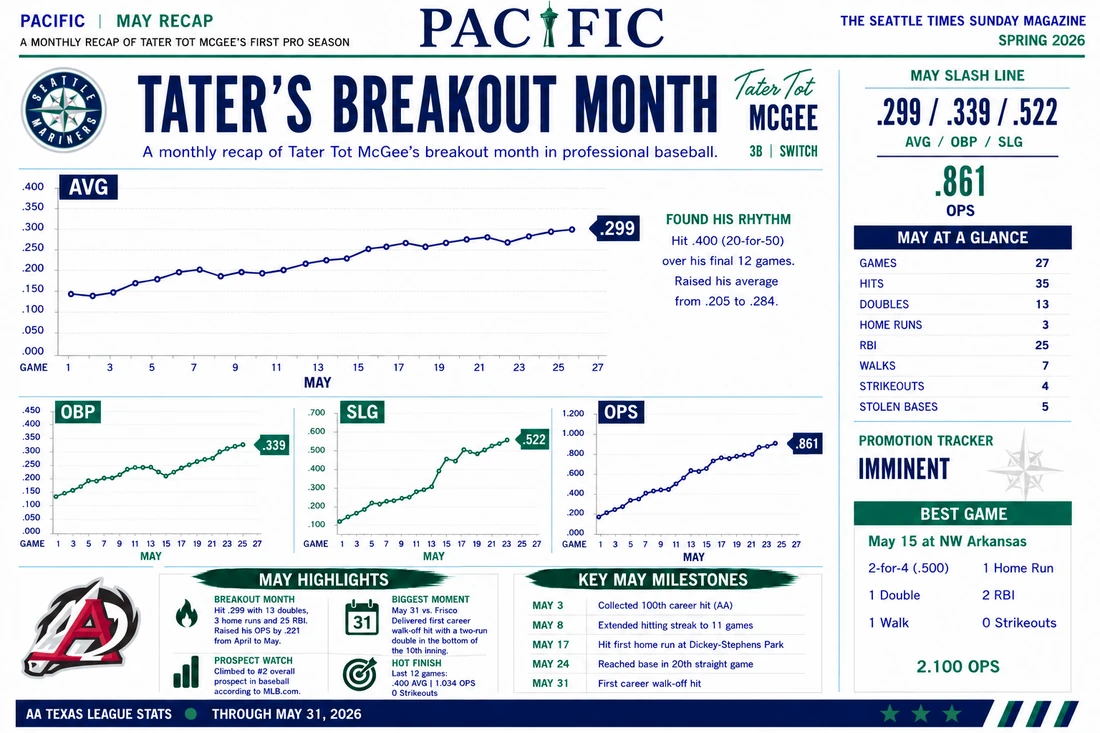
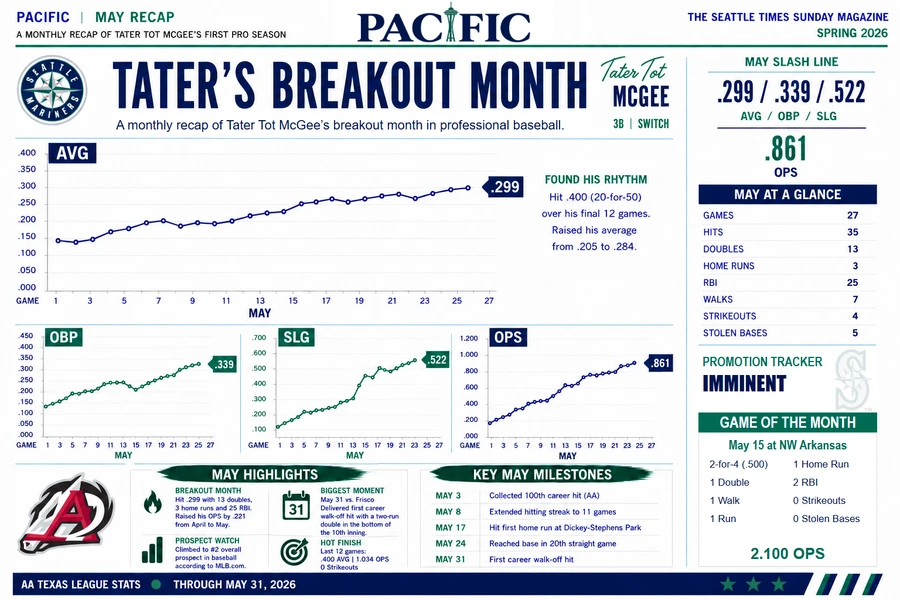
recaps

diff --git a/stats.html b/stats.html
@@ -12,9 +12,9 @@
 .stats-note{font-size:12px;color:var(--muted);line-height:1.5}
 </style></head><body><div class="topline"><div class="bar"><span>Tater Tot Chronicles · A PACIFIC Career Archive</span><span>Sandpoint · Fresno · Seattle</span></div></div>
 <header class="mast"><div class="mastrow"><div><a class="sitebrand" href="index.html">TATER TOT CHRONICLES</a><div class="tag">A family and baseball archive</div></div><a class="pacific-logo-link" href="index.html" aria-label="Tater Tot Chronicles home"><img class="pacific-logo-img" src="assets/pacific-logo.png" alt="PACIFIC"></a></div></header>
-<nav class="nav"><div class="navrow"><a class="" href="index.html">Home</a><a class="" href="mcgee-story.html">The McGee Story</a><a class="" href="archive.html">Weekly Write-Ups</a><a class="" href="recaps.html">Monthly Recaps</a><a class="active" href="stats.html" aria-current="page">Stats</a><a class="" href="career.html">Career Milestones</a><a class="" href="photos.html">Photos</a><a class="" href="snapshots.html">Personal Snapshots</a></div></nav><main><section class="pagehero"><div class="wrap"><div class="kicker">The season in numbers</div><h1 class="h1">Tater Tot McGee — 2026 Statistics</h1><p class="dek">2026 statistics through PACIFIC Issue 14, including the first four Triple-A series.</p><p class="stats-note">Summary: Tacoma’s first 24 games through the July 2026 series in Issue 14. Double-A totals through June 7 are listed below.</p><div class="statcards"><div class="stat stats-team"><b>Tacoma Rainiers — Triple-A</b><span>Through game 24 · PACIFIC Issue 14</span></div><div class="stat"><b>24</b><span>Games</span></div><div class="stat"><b>.270</b><span>AVG</span></div><div class="stat"><b>.302</b><span>OBP</span></div><div class="stat"><b>.520</b><span>SLG</span></div><div class="stat"><b>.822</b><span>OPS</span></div><div class="stat"><b>5</b><span>HR</span></div><div class="stat"><b>19</b><span>RBI</span></div><div class="stat"><b>5</b><span>SB</span></div><div class="stat"><b>5</b><span>BB</span></div><div class="stat"><b>7</b><span>SO</span></div><div class="stat"><b>100</b><span>AB</span></div><div class="stat"><b>12</b><span>R</span></div><div class="stat"><b>27</b><span>H</span></div><div class="stat"><b>10</b><span>2B</span></div><div class="stat"><b>0</b><span>3B</span></div></div></div></section><section id="arkansas" class=""><div class="wrap"><div class="kicker">Double-A</div><h2 class="h2" id="arkansas-heading">Double-A Arkansas Travelers</h2><div class="stats-table-scroll" role="region" aria-labelledby="arkansas-heading" tabindex="0"><table class="stats-table" aria-labelledby="arkansas-heading"><thead><tr><th scope="col">Season</th><th scope="col">G</th><th scope="col">AB</th><th scope="col">R</th><th scope="col">H</th><th scope="col">2B</th><th scope="col">3B</th><th scope="col">HR</th><th scope="col">RBI</th><th scope="col">BB</th><th scope="col">SO</th><th scope="col">SB</th><th scope="col">HBP</th><th scope="col">SF</th><th scope="col">AVG</th><th scope="col">OBP</th><th scope="col">SLG</th><th scope="col">OPS</th></tr></thead><tbody><tr><th scope="row">2026</th><td>57</td><td>230</td><td>23</td><td>66</td><td>18</td><td>0</td><td>6</td><td>42</td><td>17</td><td>14</td><td>12</td><td>3</td><td>4</td><td>.287</td><td>.339</td><td>.443</td><td>.782</td></tr></tbody></table></div></div></section><section id="tacoma" class="section-alt"><div class="wrap"><div class="kicker">Triple-A</div><h2 class="h2" id="tacoma-heading">Triple-A Tacoma Rainiers</h2><p class="stats-note">Season totals through game 24 · Source: <a href="issue-14.html">PACIFIC Issue 14 — Two Tater Trots for America's 250th</a>. HBP and SF were not listed in the article.</p><div class="stats-table-scroll" role="region" aria-labelledby="tacoma-heading" tabindex="0"><table class="stats-table" aria-labelledby="tacoma-heading"><thead><tr><th scope="col">Season</th><th scope="col">G</th><th scope="col">AB</th><th scope="col">R</th><th scope="col">H</th><th scope="col">2B</th><th scope="col">3B</th><th scope="col">HR</th><th scope="col">RBI</th><th scope="col">BB</th><th scope="col">SO</th><th scope="col">SB</th><th scope="col">HBP</th><th scope="col">SF</th><th scope="col">AVG</th><th scope="col">OBP</th><th scope="col">SLG</th><th scope="col">OPS</th></tr></thead><tbody><tr><th scope="row">2026</th><td>24</td><td>100</td><td>12</td><td>27</td><td>10</td><td>0</td><td>5</td><td>19</td><td>5</td><td>7</td><td>5</td><td>—</td><td>—</td><td>.270</td><td>.302</td><td>.520</td><td>.822</td></tr></tbody></table></div></div></section>
-<section id="series-stats"><div class="wrap"><div class="kicker">Series by series</div><h2 class="h2" id="series-heading">Tacoma Series Stats</h2><p class="stats-note">June–July 2026 · Statistics as printed in each PACIFIC issue.</p><div class="stats-table-scroll" role="region" aria-labelledby="series-heading" tabindex="0"><table class="stats-table" aria-labelledby="series-heading"><thead><tr><th scope="col">Series</th><th scope="col">G</th><th scope="col">AB</th><th scope="col">R</th><th scope="col">H</th><th scope="col">2B</th><th scope="col">3B</th><th scope="col">HR</th><th scope="col">RBI</th><th scope="col">BB</th><th scope="col">SO</th><th scope="col">SB</th><th scope="col">AVG</th><th scope="col">OBP</th><th scope="col">SLG</th><th scope="col">OPS</th></tr></thead><tbody><tr><th scope="row"><a href="issue.html?issue=11">Issue 11 · First Triple-A series</a></th><td>6</td><td>26</td><td>4</td><td>7</td><td>4</td><td>0</td><td>2</td><td>5</td><td>1</td><td>4</td><td>4</td><td>.269</td><td>.296</td><td>.654</td><td>.950</td></tr><tr><th scope="row"><a href="issue.html?issue=12">Issue 12 · @ Salt Lake Bees</a></th><td>6</td><td>23</td><td>2</td><td>6</td><td>2</td><td>0</td><td>1</td><td>5</td><td>3</td><td>1</td><td>0</td><td>.261</td><td>.346</td><td>.478</td><td>.824</td></tr><tr><th scope="row"><a href="issue.html?issue=13">Issue 13 · vs. Round Rock Express</a></th><td>6</td><td>24</td><td>4</td><td>6</td><td>2</td><td>0</td><td>0</td><td>3</td><td>1</td><td>2</td><td>1</td><td>.250</td><td>.280</td><td>.333</td><td>.613</td></tr><tr><th scope="row"><a href="issue-14.html">Issue 14 · vs. Reno Aces</a></th><td>6</td><td>27</td><td>2</td><td>8</td><td>2</td><td>0</td><td>2</td><td>6</td><td>0</td><td>0</td><td>0</td><td>.296</td><td>.286</td><td>.593</td><td>.878</td></tr></tbody></table></div></div></section><!-- Later AAA totals held until the corresponding weekly articles are published.
-<section id="tacoma" class="section-alt"><div class="wrap"><div class="kicker">Triple-A</div><h2 class="h2" id="tacoma-heading">Triple-A Tacoma Rainiers</h2><div class="stats-table-scroll" role="region" aria-labelledby="tacoma-heading" tabindex="0"><table class="stats-table" aria-labelledby="tacoma-heading"><thead><tr><th scope="col">Season</th><th scope="col">G</th><th scope="col">AB</th><th scope="col">R</th><th scope="col">H</th><th scope="col">2B</th><th scope="col">3B</th><th scope="col">HR</th><th scope="col">RBI</th><th scope="col">BB</th><th scope="col">SO</th><th scope="col">SB</th><th scope="col">HBP</th><th scope="col">SF</th><th scope="col">AVG</th><th scope="col">OBP</th><th scope="col">SLG</th><th scope="col">OPS</th></tr></thead><tbody><tr><th scope="row">2026</th><td>39</td><td>166</td><td>17</td><td>45</td><td>17</td><td>0</td><td>9</td><td>29</td><td>6</td><td>9</td><td>5</td><td>0</td><td>2</td><td>.271</td><td>.293</td><td>.536</td><td>.829</td></tr></tbody></table></div></div></section>
+<nav class="nav"><div class="navrow"><a class="" href="index.html">Home</a><a class="" href="mcgee-story.html">The McGee Story</a><a class="" href="archive.html">Weekly Write-Ups</a><a class="" href="recaps.html">Monthly Recaps</a><a class="active" href="stats.html" aria-current="page">Stats</a><a class="" href="career.html">Career Milestones</a><a class="" href="photos.html">Photos</a><a class="" href="snapshots.html">Personal Snapshots</a></div></nav><main><section class="pagehero"><div class="wrap"><div class="kicker">The season in numbers</div><h1 class="h1">Tater Tot McGee — 2026 Statistics</h1><p class="dek">2026 statistics through game 24, based on the corrected game log.</p><p class="stats-note">Tacoma totals through July 5, 2026, from the corrected game log. Double-A totals through June 7 are listed below.</p><div class="statcards"><div class="stat stats-team"><b>Tacoma Rainiers — Triple-A</b><span>Through game 24 · Corrected game log</span></div><div class="stat"><b>24</b><span>Games</span></div><div class="stat"><b>.270</b><span>AVG</span></div><div class="stat"><b>.302</b><span>OBP</span></div><div class="stat"><b>.490</b><span>SLG</span></div><div class="stat"><b>.792</b><span>OPS</span></div><div class="stat"><b>4</b><span>HR</span></div><div class="stat"><b>19</b><span>RBI</span></div><div class="stat"><b>5</b><span>SB</span></div><div class="stat"><b>5</b><span>BB</span></div><div class="stat"><b>7</b><span>SO</span></div><div class="stat"><b>100</b><span>AB</span></div><div class="stat"><b>12</b><span>R</span></div><div class="stat"><b>27</b><span>H</span></div><div class="stat"><b>10</b><span>2B</span></div><div class="stat"><b>0</b><span>3B</span></div></div><section id="arkansas" class=""><div class="wrap"><div class="kicker">Double-A</div><h2 class="h2" id="arkansas-heading">Double-A Arkansas Travelers</h2><div class="stats-table-scroll" role="region" aria-labelledby="arkansas-heading" tabindex="0"><table class="stats-table" aria-labelledby="arkansas-heading"><thead><tr><th scope="col">Season</th><th scope="col">G</th><th scope="col">AB</th><th scope="col">R</th><th scope="col">H</th><th scope="col">2B</th><th scope="col">3B</th><th scope="col">HR</th><th scope="col">RBI</th><th scope="col">BB</th><th scope="col">SO</th><th scope="col">SB</th><th scope="col">HBP</th><th scope="col">SF</th><th scope="col">AVG</th><th scope="col">OBP</th><th scope="col">SLG</th><th scope="col">OPS</th></tr></thead><tbody><tr><th scope="row">2026</th><td>57</td><td>230</td><td>23</td><td>66</td><td>18</td><td>0</td><td>6</td><td>42</td><td>17</td><td>14</td><td>12</td><td>3</td><td>4</td><td>.287</td><td>.339</td><td>.443</td><td>.782</td></tr></tbody></table></div></div></section><section id="tacoma" class="section-alt"><div class="wrap"><div class="kicker">Triple-A</div><h2 class="h2" id="tacoma-heading">Triple-A Tacoma Rainiers</h2><p class="stats-note">Season totals through game 24 · Source: corrected Tater game log through July 5, 2026.</p><div class="stats-table-scroll" role="region" aria-labelledby="tacoma-heading" tabindex="0"><table class="stats-table" aria-labelledby="tacoma-heading"><thead><tr><th scope="col">Season</th><th scope="col">G</th><th scope="col">AB</th><th scope="col">R</th><th scope="col">H</th><th scope="col">2B</th><th scope="col">3B</th><th scope="col">HR</th><th scope="col">RBI</th><th scope="col">BB</th><th scope="col">SO</th><th scope="col">SB</th><th scope="col">HBP</th><th scope="col">SF</th><th scope="col">AVG</th><th scope="col">OBP</th><th scope="col">SLG</th><th scope="col">OPS</th></tr></thead><tbody><tr><th scope="row">2026</th><td>24</td><td>100</td><td>12</td><td>27</td><td>10</td><td>0</td><td>4</td><td>19</td><td>5</td><td>7</td><td>5</td><td>0</td><td>1</td><td>.270</td><td>.302</td><td>.490</td><td>.792</td></tr></tbody></table></div></div></section>
+<section id="series-stats"><div class="wrap"><div class="kicker">Series by series</div><h2 class="h2" id="series-heading">Tacoma Series Stats</h2><p class="stats-note">June–July 2026 · Statistics as printed in each PACIFIC issue.</p><div class="stats-table-scroll" role="region" aria-labelledby="series-heading" tabindex="0"><table class="stats-table" aria-labelledby="series-heading"><thead><tr><th scope="col">Series</th><th scope="col">G</th><th scope="col">AB</th><th scope="col">R</th><th scope="col">H</th><th scope="col">2B</th><th scope="col">3B</th><th scope="col">HR</th><th scope="col">RBI</th><th scope="col">BB</th><th scope="col">SO</th><th scope="col">SB</th><th scope="col">AVG</th><th scope="col">OBP</th><th scope="col">SLG</th><th scope="col">OPS</th></tr></thead><tbody><tr><th scope="row"><a href="issue-11.html">Issue 11 · First Triple-A series</a></th><td>6</td><td>26</td><td>4</td><td>7</td><td>4</td><td>0</td><td>1</td><td>5</td><td>1</td><td>4</td><td>4</td><td>.269</td><td>.296</td><td>.538</td><td>.835</td></tr><tr><th scope="row"><a href="issue-12.html">Issue 12 · @ Salt Lake Bees</a></th><td>6</td><td>23</td><td>2</td><td>6</td><td>3</td><td>0</td><td>1</td><td>5</td><td>3</td><td>1</td><td>0</td><td>.261</td><td>.346</td><td>.522</td><td>.868</td></tr><tr><th scope="row"><a href="issue-13.html">Issue 13 · vs. Round Rock Express</a></th><td>6</td><td>24</td><td>4</td><td>6</td><td>2</td><td>0</td><td>0</td><td>3</td><td>1</td><td>2</td><td>1</td><td>.250</td><td>.280</td><td>.333</td><td>.613</td></tr><tr><th scope="row"><a href="issue-14.html">Issue 14 · vs. Reno Aces</a></th><td>6</td><td>27</td><td>2</td><td>8</td><td>1</td><td>0</td><td>2</td><td>6</td><td>0</td><td>0</td><td>0</td><td>.296</td><td>.286</td><td>.556</td><td>.841</td></tr></tbody></table></div></div></section><!-- Later AAA totals held until the corresponding weekly articles are published.
+<section id="tacoma" class="section-alt"><div class="wrap"><div class="kicker">Triple-A</div><h2 class="h2" id="tacoma-heading">Triple-A Tacoma Rainiers</h2><div class="stats-table-scroll" role="region" aria-labelledby="tacoma-heading" tabindex="0"><table class="stats-table" aria-labelledby="tacoma-heading"><thead><tr><th scope="col">Season</th><th scope="col">G</th><th scope="col">AB</th><th scope="col">R</th><th scope="col">H</th><th scope="col">2B</th><th scope="col">3B</th><th scope="col">HR</th><th scope="col">RBI</th><th scope="col">BB</th><th scope="col">SO</th><th scope="col">SB</th><th scope="col">HBP</th><th scope="col">SF</th><th scope="col">AVG</th><th scope="col">OBP</th><th scope="col">SLG</th><th scope="col">OPS</th></tr></thead><tbody><tr><th scope="row">2026</th><td>24</td><td>100</td><td>12</td><td>27</td><td>10</td><td>0</td><td>4</td><td>19</td><td>5</td><td>7</td><td>5</td><td>0</td><td>1</td><td>.270</td><td>.302</td><td>.490</td><td>.792</td></tr></tbody></table></div></div></section>
 --><section id="seattle" class=""><div class="wrap"><div class="kicker">Major League Baseball</div><h2 class="h2" id="seattle-heading">Seattle Mariners</h2><p class="dek">No MLB games yet.</p></div></section><section id="monthly-splits" class="section-soft"><div class="wrap"><div class="kicker">Month by month</div><h2 class="h2" id="monthly-splits-heading">Monthly Splits</h2><div class="stats-table-scroll" role="region" aria-labelledby="monthly-splits-heading" tabindex="0"><table class="stats-table" aria-labelledby="monthly-splits-heading"><thead><tr><th scope="col">Month</th><th scope="col">G</th><th scope="col">AB</th><th scope="col">R</th><th scope="col">H</th><th scope="col">2B</th><th scope="col">3B</th><th scope="col">HR</th><th scope="col">RBI</th><th scope="col">BB</th><th scope="col">SO</th><th scope="col">SB</th><th scope="col">AVG</th><th scope="col">OBP</th><th scope="col">SLG</th><th scope="col">OPS</th></tr></thead><tbody><tr><th scope="row">April</th><td>24</td><td>90</td><td>8</td><td>24</td><td>4</td><td>0</td><td>0</td><td>13</td><td>8</td><td>6</td><td>7</td><td>.267</td><td>.333</td><td>.311</td><td>.644</td></tr><tr><th scope="row">May</th><td>27</td><td>114</td><td>11</td><td>34</td><td>12</td><td>0</td><td>4</td><td>22</td><td>7</td><td>4</td><td>5</td><td>.298</td><td>.341</td><td>.509</td><td>.850</td></tr><!-- Held: includes unpublished AAA games.
 <tr><th scope="row">June</th><td>25</td><td>103</td><td>14</td><td>28</td><td>12</td><td>0</td><td>5</td><td>21</td><td>7</td><td>9</td><td>5</td><td>.272</td><td>.313</td><td>.534</td><td>.846</td></tr>
 --><!-- Held: includes unpublished AAA games.

diff --git a/recaps.html b/recaps.html
@@ -2,6 +2,6 @@
 <header class="mast"><div class="mastrow"><div><a class="sitebrand" href="index.html">TATER TOT CHRONICLES</a><div class="tag">A family and baseball archive</div></div><a class="pacific-logo-link" href="index.html" aria-label="Tater Tot Chronicles home"><img class="pacific-logo-img" src="assets/pacific-logo.png" alt="PACIFIC"></a></div></header>
 <nav class="nav"><div class="navrow"><a class="" href="index.html">Home</a><a class="" href="mcgee-story.html">The McGee Story</a><a class="" href="archive.html">Weekly Write-Ups</a><a class="active" href="recaps.html">Monthly Recaps</a><a href="stats.html">Stats</a><a class="" href="career.html">Career Milestones</a><a class="" href="photos.html">Photos</a><a class="" href="snapshots.html">Personal Snapshots</a></div></nav><section class="pagehero"><div class="wrap"><div class="kicker">Monthly Recaps</div><h1 class="h1">The season in numbers</h1><p class="dek">Monthly PACIFIC recaps from the professional season of Tater Tot McGee.</p></div></section>
 <section id="april"><div class="wrap"><div class="kicker">April 2026</div><h2 class="h2">Tater's April Roller Coaster</h2><div class="statcards"><div class="stat"><b>.267</b><span>AVG</span></div><div class="stat"><b>.333</b><span>OBP</span></div><div class="stat"><b>.311</b><span>SLG</span></div><div class="stat"><b>.644</b><span>OPS</span></div></div><div class="recapsec"><a href="assets/april-recap.png" target="_blank"><img src="assets/april-recap.png" alt="April PACIFIC recap"></a><div class="recapnotes"><h3>April at a glance</h3><ul><li>24 games, 24 hits, 4 doubles</li><li>13 RBI, 8 walks, 6 strikeouts</li><li>7 stolen bases</li><li>Finished the month by hitting .467 over his final four games</li><li>Game of the Month: April 29 at Wichita — 2-for-3, double, walk, stolen base, 1.800 OPS</li></ul></div></div></div></section>
-<section id="may" class="section-alt"><div class="wrap"><div class="kicker">May 2026</div><h2 class="h2">Tater's Breakout Month</h2><div class="statcards"><div class="stat"><b>.299</b><span>AVG</span></div><div class="stat"><b>.339</b><span>OBP</span></div><div class="stat"><b>.522</b><span>SLG</span></div><div class="stat"><b>.861</b><span>OPS</span></div></div><div class="recapsec"><a href="assets/may-recap.png" target="_blank"><img src="assets/may-recap.png" alt="May PACIFIC recap"></a><div class="recapnotes"><h3>May at a glance</h3><ul><li>27 games, 35 hits, 13 doubles</li><li>3 home runs and 25 RBI</li><li>7 walks, only 4 strikeouts</li><li>Hit .400 over the final 12 games of the month</li><li>Best Game: May 15 at Northwest Arkansas — 2-for-4, HR, 2B, 2 RBI, walk, 0 strikeouts, 2.100 OPS</li></ul></div></div></div></section>
-<section id="june"><div class="wrap"><div class="kicker">June 2026 · Arkansas AA / Tacoma AAA</div><h2 class="h2">Tater’s Tacoma Homecoming</h2><div class="statcards"><div class="stat"><b>.272</b><span>AVG</span></div><div class="stat"><b>.313</b><span>OBP</span></div><div class="stat"><b>.495</b><span>SLG</span></div><div class="stat"><b>.808</b><span>OPS</span></div></div><div class="recapsec"><a href="assets/june-recap.png" target="_blank" rel="noopener"><img src="assets/june-recap.png" alt="June PACIFIC recap: AVG, OBP, SLG and OPS graphs show the AA-to-AAA transition between June 7 and June 9" loading="lazy" decoding="async"></a><div class="recapnotes"><h3>June at a glance</h3><ul><li>25 games: 6 with Arkansas (AA), 19 with Tacoma (AAA)</li><li>103 at-bats, 14 runs, 28 hits, 11 doubles, 0 triples</li><li>4 home runs, 21 RBI, 7 walks, 11 strikeouts, 5 stolen bases</li><li>0 hit-by-pitches and 2 sacrifice flies</li></ul><h3>Highlights</h3><p>McGee closed his Arkansas stint with a two-homer game, then opened his Tacoma career with three hits, a double, a home run and two stolen bases. On June 19 at Salt Lake, he went 2-for-3 with a home run, a double, three RBI and a walk.</p><h3>Key Milestones</h3><ul><li>June 3: Game-tying two-run double in the eighth inning at Corpus Christi.</li><li>June 7: First professional multi-home-run game in his final Double-A appearance.</li><li>June 9: Triple-A debut and first AAA hit, RBI, double, run, walk, stolen base and home run.</li></ul><h3>Game of the Month</h3><p>June 19 at Salt Lake — 2-for-3, double, home run, 2 runs, 3 RBI, walk and 0 strikeouts. 2.750 OPS.</p><h3>Promotion Tracker</h3><p>Promoted from Arkansas to Tacoma on June 9 after 57 Double-A games. June includes both clubs; each graph marks the transition after June 7 and before June 9.</p><p>Graphs show running June-only totals across both levels, without resetting at promotion. Monthly coverage: June 1–30, 2026.</p></div></div></div></section>
+<section id="may" class="section-alt"><div class="wrap"><div class="kicker">May 2026</div><h2 class="h2">Tater's Breakout Month</h2><div class="statcards"><div class="stat"><b>.299</b><span>AVG</span></div><div class="stat"><b>.339</b><span>OBP</span></div><div class="stat"><b>.522</b><span>SLG</span></div><div class="stat"><b>.861</b><span>OPS</span></div></div><div class="recapsec"><a href="assets/may-recap.png" target="_blank"><img src="assets/may-recap.png" alt="May PACIFIC recap"></a><div class="recapnotes"><h3>May at a glance</h3><ul><li>27 games, 35 hits, 13 doubles</li><li>3 home runs and 25 RBI</li><li>7 walks, only 4 strikeouts</li><li>Hit .400 over the final 12 games of the month</li><li>Game of the Month: May 15 at Northwest Arkansas — 2-for-4, HR, 2B, 2 RBI, walk, 0 strikeouts, 2.100 OPS</li></ul></div></div></div></section>
+<section id="june"><div class="wrap"><div class="kicker">June 2026 · Arkansas AA / Tacoma AAA</div><h2 class="h2">Tater’s Tacoma Homecoming</h2><div class="statcards"><div class="stat"><b>.272</b><span>AVG</span></div><div class="stat"><b>.313</b><span>OBP</span></div><div class="stat"><b>.495</b><span>SLG</span></div><div class="stat"><b>.808</b><span>OPS</span></div></div><div class="recapsec"><a href="assets/june-recap.png" target="_blank" rel="noopener"><img src="assets/june-recap.png" alt="June PACIFIC recap: AVG, OBP, SLG and OPS graphs show the AA-to-AAA transition between June 7 and June 9" loading="lazy" decoding="async"></a><div class="recapnotes"><h3>June at a glance</h3><ul><li>25 games: 6 with Arkansas (AA), 19 with Tacoma (AAA)</li><li>103 at-bats, 14 runs, 28 hits, 11 doubles, 0 triples</li><li>4 home runs, 21 RBI, 7 walks, 11 strikeouts, 5 stolen bases</li><li>0 hit-by-pitches and 2 sacrifice flies</li></ul><h3>Highlights</h3><p>McGee closed his Arkansas stint with a two-homer game, then recorded 11 doubles and four home runs across the two levels in June.</p><h3>Key Milestones</h3><ul><li>June 3: Game-tying two-run double in the eighth inning at Corpus Christi.</li><li>June 7: First professional multi-home-run game in his final Double-A appearance.</li><li>June 9: Triple-A debut and first AAA hit, RBI, double, run, walk, stolen base and home run.</li></ul><h3>Game of the Month</h3><p>June 19 at Salt Lake — 2-for-3, double, home run, 2 runs, 3 RBI, walk and 0 strikeouts. 2.750 OPS.</p><h3>Promotion Tracker</h3><p>Promoted from Arkansas to Tacoma on June 9 after 57 Double-A games. June includes both clubs; each graph marks the transition after June 7 and before June 9.</p><p>Graphs show running June-only totals across both levels, without resetting at promotion. Monthly coverage: June 1–30, 2026.</p></div></div></div></section>
 <footer><div class="footrow"><div><strong>Tater Tot Chronicles / PACIFIC</strong><p>Following Tater Tot McGee from family history through professional baseball.</p></div><div class="disclaimer">Tater Tot Chronicles is a fictional fan-created baseball project and is not affiliated with The Seattle Times, Seattle Mariners, MLB or Minor League Baseball.</div></div></footer><script src="site.js"></script></body></html>

diff --git a/styles.css b/styles.css
@@ -11,4 +11,4 @@
 /* photos */.gallery{columns:3 330px;column-gap:18px}.photo{break-inside:avoid;margin:0 0 18px;background:white;border:1px solid #d5dcdf}.photo img{width:100%;display:block}.photo .pcap{padding:13px 15px}.photo .pcap b{display:block;font-family:Georgia,serif;color:var(--deep);font-size:17px}.photo .pcap span{display:block;margin-top:4px;color:#65747d;font-size:11px;line-height:1.35}
 footer{background:var(--deep);color:#dce6ec;margin-top:0}.footrow{padding-top:28px;padding-bottom:28px;display:grid;grid-template-columns:1fr 1fr;gap:30px;font-size:12px}.footrow p{color:#9fb0bb}.disclaimer{line-height:1.5;color:#a9b8c1;max-width:570px;justify-self:end}
 @media(max-width:1050px){.hero-in{grid-template-columns:1fr}.hero-note{justify-self:start}.timeline{grid-template-columns:repeat(3,1fr);row-gap:16px}.lead-grid,.career-grid,.recapsec{grid-template-columns:1fr}.chaptergrid{grid-template-columns:repeat(2,1fr)}.archivegrid{grid-template-columns:repeat(2,1fr)}.story-shell{grid-template-columns:1fr}.readingnav{display:none}.mobilejump{display:block}.issue-strip{grid-template-columns:repeat(2,1fr)}.fieldgrid{grid-template-columns:1fr}.rankline{grid-template-columns:repeat(3,1fr)}.statcards{grid-template-columns:repeat(2,1fr)}}
-@media(max-width:700px){.bar span:last-child{display:none}.mastrow{min-height:92px}.sitebrand{font-size:27px}.pacific-logo-img{width:220px;max-width:42vw}.navrow{gap:21px}.wrap{padding-top:42px;padding-bottom:42px}.h1{font-size:46px}.h2{font-size:33px}.family-hero{min-height:615px}.hero-in{min-height:615px;padding-top:67px}.hero-in h1{font-size:52px}.hero-dek{font-size:20px}.timeline{grid-template-columns:repeat(2,1fr)}.currentin{align-items:flex-start;flex-direction:column;gap:5px}.lead-grid{gap:18px}.chaptergrid{grid-template-columns:1fr 1fr}.chapter{height:220px}.feature-card{grid-template-columns:1fr}.mini{grid-template-columns:105px 1fr}.mini img{width:105px;height:78px}.issue-strip,.recapgrid,.archivegrid{grid-template-columns:1fr}.storyphoto img{height:300px}.article{font-size:17px}.article .h1{font-size:43px}.article h2{font-size:30px}.careerline:before{left:28px}.career-event{grid-template-columns:1fr;padding-left:52px}.career-event .year{text-align:left}.career-event .event:before{left:21px}.career-event .media{grid-template-columns:1fr}.statcards{grid-template-columns:1fr 1fr}.rankline{grid-template-columns:1fr 1fr}.footrow{grid-template-columns:1fr}.disclaimer{justify-self:start}}
+@media(max-width:700px){.bar span:last-child{display:none}.mastrow{min-height:92px;gap:12px}.sitebrand{font-size:25px}.pacific-logo-img{width:160px;max-width:38vw}.navrow{gap:21px}.wrap{padding-top:42px;padding-bottom:42px}.h1{font-size:46px}.h2{font-size:33px}.family-hero{min-height:615px}.hero-in{min-height:615px;padding-top:67px}.hero-in h1{font-size:52px}.hero-dek{font-size:20px}.timeline{grid-template-columns:repeat(2,1fr)}.currentin{align-items:flex-start;flex-direction:column;gap:5px}.lead-grid{gap:18px}.chaptergrid{grid-template-columns:1fr 1fr}.chapter{height:220px}.feature-card{grid-template-columns:1fr}.mini{grid-template-columns:105px 1fr}.mini img{width:105px;height:78px}.issue-strip,.recapgrid,.archivegrid{grid-template-columns:1fr}.storyphoto img{height:300px}.article{font-size:17px}.article .h1{font-size:43px}.article h2{font-size:30px}.careerline:before{left:28px}.career-event{grid-template-columns:1fr;padding-left:52px}.career-event .year{text-align:left}.career-event .event:before{left:21px}.career-event .media{grid-template-columns:1fr}.statcards{grid-template-columns:1fr 1fr}.rankline{grid-template-columns:1fr 1fr}.footrow{grid-template-columns:1fr}.disclaimer{justify-self:start}}
